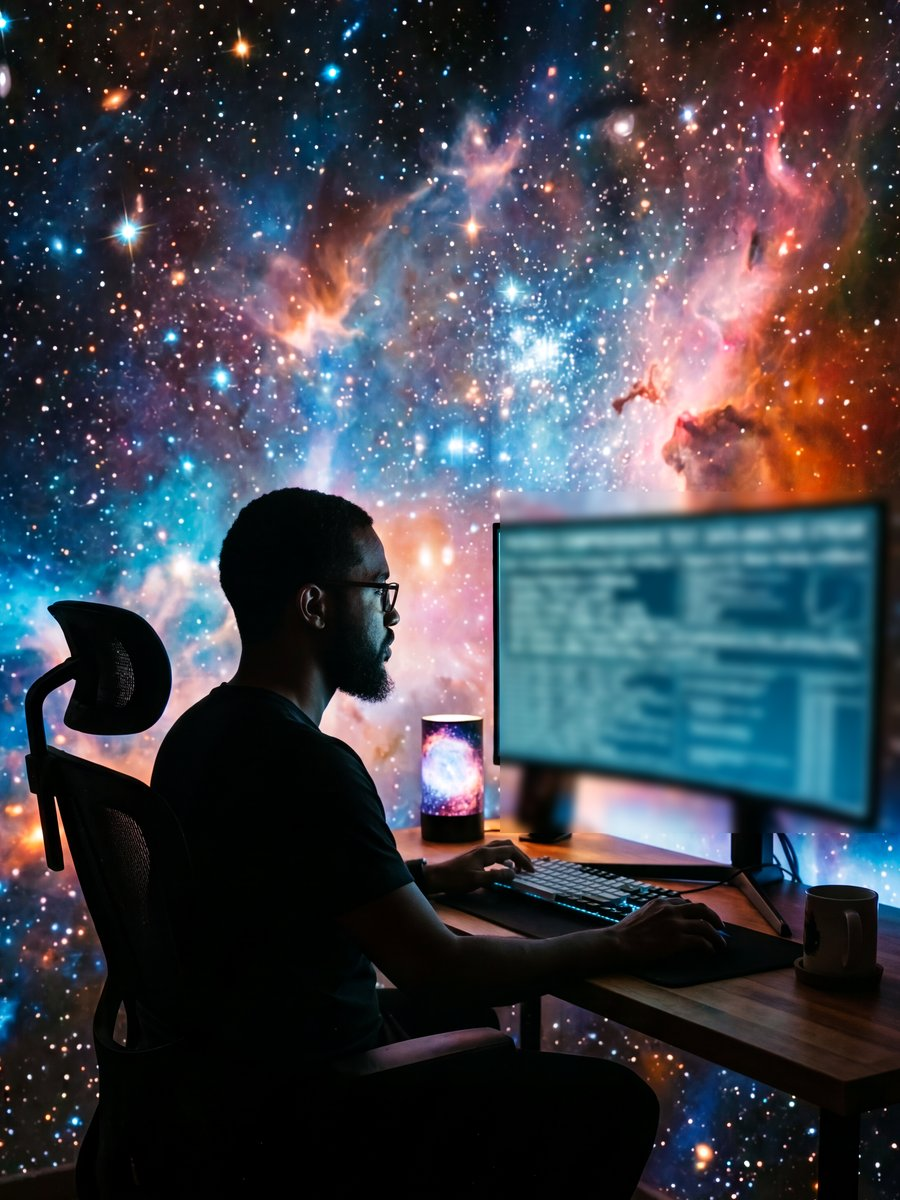
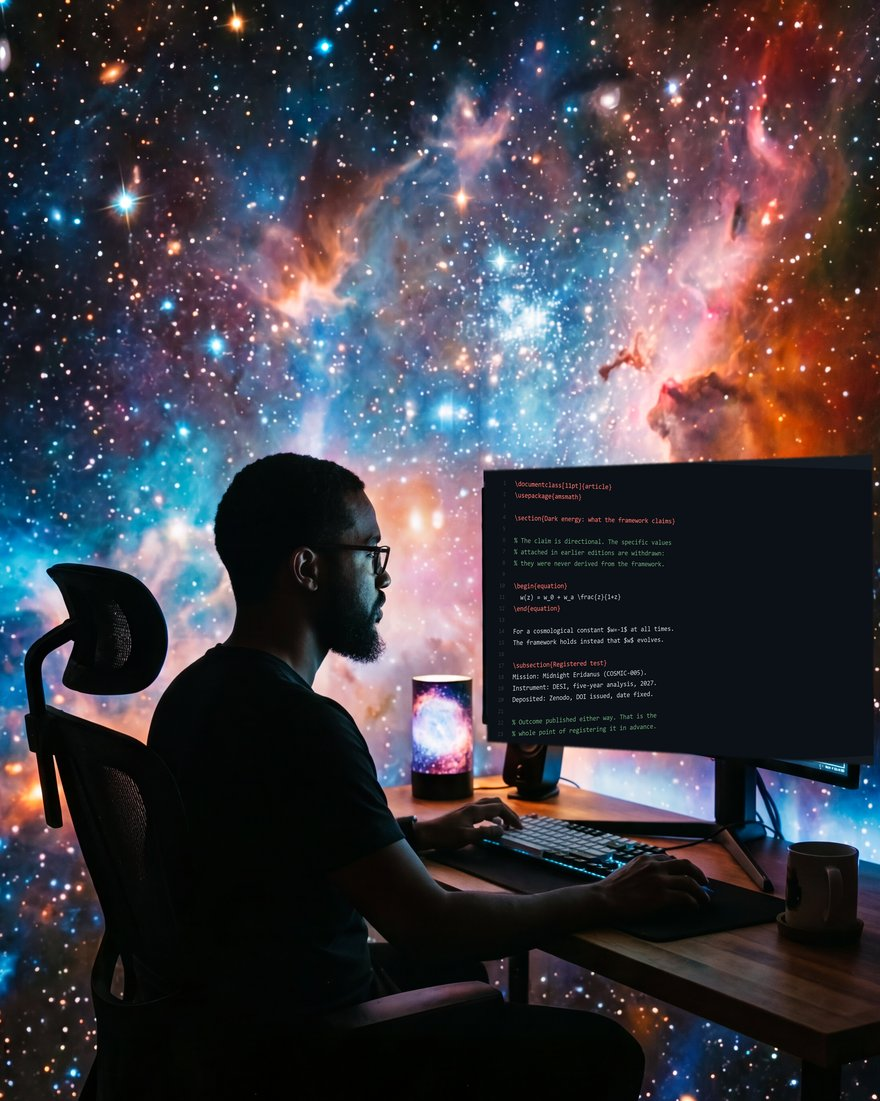
Blog: the desk and the invitation move into the title panel
Both now sit in the header with the drifting cube kept as it was, and the
closing panel is gone since its content moved up.

The screen is no longer blurred. It carries a real editor instead: tabs, line
numbers, and LaTeX source for the dark energy equation of state, with comments
saying the specific values attached in earlier editions are withdrawn because
they were never derived from the framework, and the registered test named with
its instrument and its deposit. Composited onto the monitor with a perspective
transform matched to the screen's own corners, so anyone who zooms in reads
something true rather than something invented.

The picture feathers into the panel's navy, keeps clear of the centred text
rather than sitting behind it, and steps aside entirely below 1320px where
there is no room for both. Checked at 420 through 1800: no collision, nothing
cropped through the figure, no overflow.

diff --git a/blog.html b/blog.html
@@ -180,6 +180,51 @@
     }
 
     
+
+    /* The desk sits in the title panel, feathered into the panel's own navy,
+       which is the only background dark enough for its edges to disappear
+       into. It keeps clear of the centred text rather than sitting behind it,
+       so nothing is cropped through the figure, and it steps aside entirely
+       when the panel is too narrow to hold both. */
+    .page-header { min-height: 400px; }
+    .ph-desk {
+      position: absolute;
+      top: 50%;
+      right: 2%;
+      transform: translateY(-50%);
+      width: min(21%, 258px);
+      aspect-ratio: 880 / 1101;
+      z-index: 1;
+      pointer-events: none;
+      -webkit-mask-image: radial-gradient(ellipse 66% 70% at 50% 50%, #000 0%, rgba(0,0,0,.96) 30%, rgba(0,0,0,.5) 66%, transparent 98%);
+              mask-image: radial-gradient(ellipse 66% 70% at 50% 50%, #000 0%, rgba(0,0,0,.96) 30%, rgba(0,0,0,.5) 66%, transparent 98%);
+    }
+    .ph-desk img { width: 100%; height: 100%; object-fit: cover; display: block; opacity: .95; }
+    .page-header h1, .page-header p, .page-header .ph-cta { position: relative; z-index: 2; }
+    .page-header > p { max-width: 600px; }
+    .ph-invite {
+      font-size: 1rem !important;
+      color: rgba(255,255,255,.78) !important;
+      max-width: 560px !important;
+      margin: 1rem auto 0 !important;
+    }
+    .ph-cta {
+      display: inline-block;
+      margin-top: 1.4rem;
+      padding: .7rem 1.6rem;
+      border-radius: 6px;
+      background: #8B0000;
+      color: #fff;
+      font-weight: 600;
+      text-decoration: none;
+      transition: background .3s, transform .2s;
+    }
+    .ph-cta:hover { background: #6d0000; transform: translateY(-2px); }
+    @media (max-width: 1320px) {
+      .ph-desk { display: none; }
+      .page-header { min-height: 0; }
+    }
+
     /* Main Content */
     .blog-container {
       flex: 1;
@@ -542,69 +587,6 @@
       transform: translateY(-2px);
       box-shadow: 0 4px 12px rgba(0,0,0,0.2);
     }
-    
-
-    /* Closing invitation. The panel is the same navy as the title bar, which
-       is what lets the picture's edges disappear: a dark image needs a dark
-       surround to feather into, the way the about page's night scene does.
-       Nothing is cropped through the figure. */
-    .write-one {
-      position: relative;
-      overflow: hidden;
-      margin: 0 0 3rem;
-      padding: 3rem 2.5rem;
-      border-radius: 10px;
-      background: linear-gradient(135deg, #1a1a2e 0%, #16213e 100%);
-      box-shadow: 0 4px 20px rgba(0,0,0,0.12);
-      isolation: isolate;
-    }
-    .write-one-inner { position: relative; z-index: 2; max-width: 30rem; }
-    .write-one h2 {
-      font-family: 'Source Serif 4', Georgia, serif;
-      font-size: 1.9rem;
-      color: #fff;
-      margin: 0 0 1rem;
-      border: 0;
-      padding: 0;
-    }
-    .write-one p {
-      color: rgba(255,255,255,.88);
-      font-size: 1.08rem;
-      line-height: 1.8;
-      margin-bottom: 1rem;
-      max-width: 60ch;
-    }
-    .write-one .wo-cta {
-      display: inline-block;
-      margin-top: .6rem;
-      padding: .75rem 1.6rem;
-      border-radius: 6px;
-      background: #8B0000;
-      color: #fff;
-      font-weight: 600;
-      text-decoration: none;
-      transition: background .3s, transform .2s;
-    }
-    .write-one .wo-cta:hover { background: #6d0000; transform: translateY(-2px); }
-    .wo-art {
-      position: absolute;
-      top: 50%;
-      right: -2%;
-      transform: translateY(-50%);
-      width: min(38%, 330px);
-      aspect-ratio: 900 / 1200;
-      z-index: 1;
-      pointer-events: none;
-      -webkit-mask-image: radial-gradient(ellipse 66% 70% at 52% 50%, #000 0%, rgba(0,0,0,.95) 30%, rgba(0,0,0,.45) 66%, transparent 98%);
-              mask-image: radial-gradient(ellipse 66% 70% at 52% 50%, #000 0%, rgba(0,0,0,.95) 30%, rgba(0,0,0,.45) 66%, transparent 98%);
-    }
-    .wo-art img { width: 100%; height: 100%; object-fit: cover; display: block; opacity: .92; }
-    @media (max-width: 820px) {
-      .write-one { padding: 2rem 1.5rem; }
-      .write-one-inner { max-width: none; }
-      .wo-art { position: static; transform: none; width: 100%; max-width: 320px;
-        margin: 1.5rem auto 0; display: block; }
-    }
 
     /* Footer */
 
@@ -765,8 +747,11 @@
   <!-- Page Header -->
   <section id="main-content" tabindex="-1" class="page-header tp-center">
     <img src="metatron-spin.svg" class="title-cube" alt="" aria-hidden="true">
+    <div class="ph-desk" aria-hidden="true"><img src="blog-desk.jpg" alt="" fetchpriority="high"></div>
     <h1>Research Blog</h1>
-    <p>A new post every month, on subjects that range widely and mostly follow what the science implies. Write your own and send it to us.</p>
+    <p>A new post every month, on subjects that range widely and mostly follow what the science implies.</p>
+    <p class="ph-invite">Everything here began with somebody sitting down with a question and no particular permission to ask it. That is the whole qualification. If you have an idea, an observation or an argument worth putting in front of people who will check it, send it.</p>
+    <a class="ph-cta" href="about-page.html#contact">Send us a post</a>
   </section>
   
   <!-- Main Content -->
@@ -3311,19 +3296,6 @@
         <p>And that awareness? That's the universe waking up to itself, one mind at a time.</p>
       </div>
     </article>
-
-    <!-- Closing invitation -->
-    <section class="write-one" data-aos="fade-up">
-      <div class="wo-art" aria-hidden="true">
-        <img src="blog-desk.jpg" alt="" loading="lazy" decoding="async">
-      </div>
-      <div class="write-one-inner">
-        <h2>Write one</h2>
-        <p>Everything on this page began with somebody sitting down with a question and no particular permission to ask it. That is the whole qualification.</p>
-        <p>If you have an idea, an observation, or an argument worth putting in front of people who will check it, send it. We publish what can be sourced, we say plainly which parts are established and which are not, and your name goes on it.</p>
-        <a class="wo-cta" href="about-page.html#contact">Send us a post</a>
-      </div>
-    </section>
 
     
   </main>
